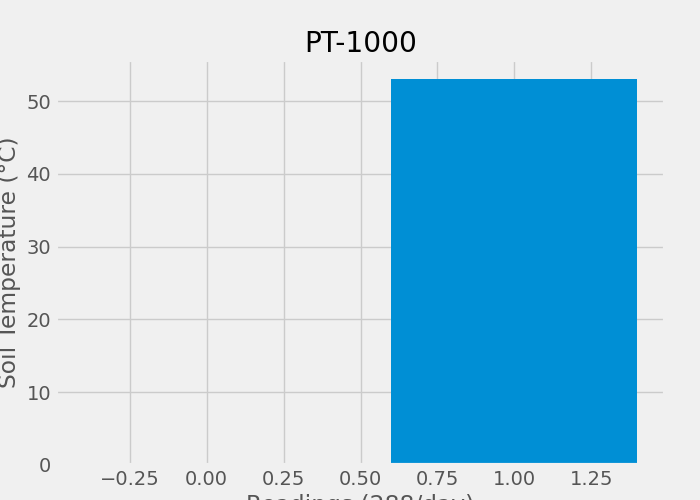
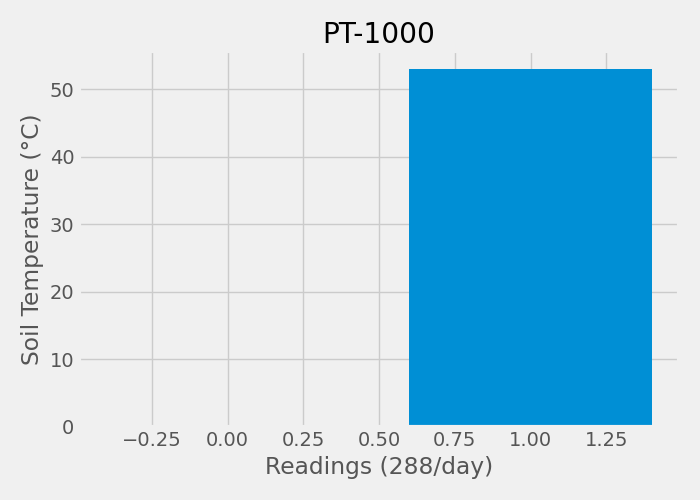
Tight Layout

diff --git a/appdir/routes.py b/appdir/routes.py
@@ -47,6 +47,7 @@ def data_plot():
     plt.ylabel('Rain in the current hour (mm)')
     plt.title('Pluviometer 1')
     plt.grid(True)
+    plt.tight_layout()
     plt.savefig('appdir/static/images/pm1.png')
     return render_template('data_plot.html')
 
@@ -66,6 +67,7 @@ def pm2():
     plt.ylabel('Rain in the previous hour (mm)')
     plt.title('Pluviometer 2')
     plt.grid(True)
+    plt.tight_layout()
     plt.savefig('appdir/static/images/pm2.png')
     return render_template('pm2.html')
 
@@ -85,6 +87,7 @@ def pm3():
     plt.ylabel('Rain in the last 24 hours (mm)')
     plt.title('Pluviometer 3')
     plt.grid(True)
+    plt.tight_layout()
     plt.savefig('appdir/static/images/pm3.png')
     return render_template('pm3.html')
 
@@ -104,6 +107,7 @@ def anemo():
     plt.ylabel('Wind Speed (km/h)')
     plt.title('Anemometer')
     plt.grid(True)
+    plt.tight_layout()
     plt.savefig('appdir/static/images/am.png')
     return render_template('anemo.html')
 
@@ -123,6 +127,7 @@ def sm():
     plt.ylabel('Soil moisture (centibar)')
     plt.title('Watermark')
     plt.grid(True)
+    plt.tight_layout()
     plt.savefig('appdir/static/images/sm.png')
     return render_template('sm.html')
 
@@ -142,6 +147,7 @@ def st():
     plt.ylabel('Soil Temperature (°C)')
     plt.title('PT-1000')
     plt.grid(True)
+    plt.tight_layout()
     plt.savefig('appdir/static/images/st.png')
     return render_template('st.html')
 
@@ -161,6 +167,7 @@ def lum():
     plt.ylabel('Illuminance (lux)')
     plt.title('Luminosity')
     plt.grid(True)
+    plt.tight_layout()
     plt.savefig('appdir/static/images/lum.png')
     return render_template('lum.html')
 
@@ -180,6 +187,7 @@ def temp():
     plt.ylabel('Celsius (°C)')
     plt.title('Temperature')
     plt.grid(True)
+    plt.tight_layout()
     plt.savefig('appdir/static/images/temp.png')
     return render_template('temp.html')
 
@@ -199,6 +207,7 @@ def humd():
     plt.ylabel('Percentage (%)')
     plt.title('humd')
     plt.grid(True)
+    plt.tight_layout()
     plt.savefig('appdir/static/images/humd.png')
     return render_template('humd.html')
 
@@ -219,6 +228,7 @@ def pres():
     plt.ylabel('Standard Atmosphere (atm)')
     plt.title('Pressure')
     plt.grid(True)
+    plt.tight_layout()
     plt.savefig('appdir/static/images/pres.png')
     return render_template('pres.html')
 
